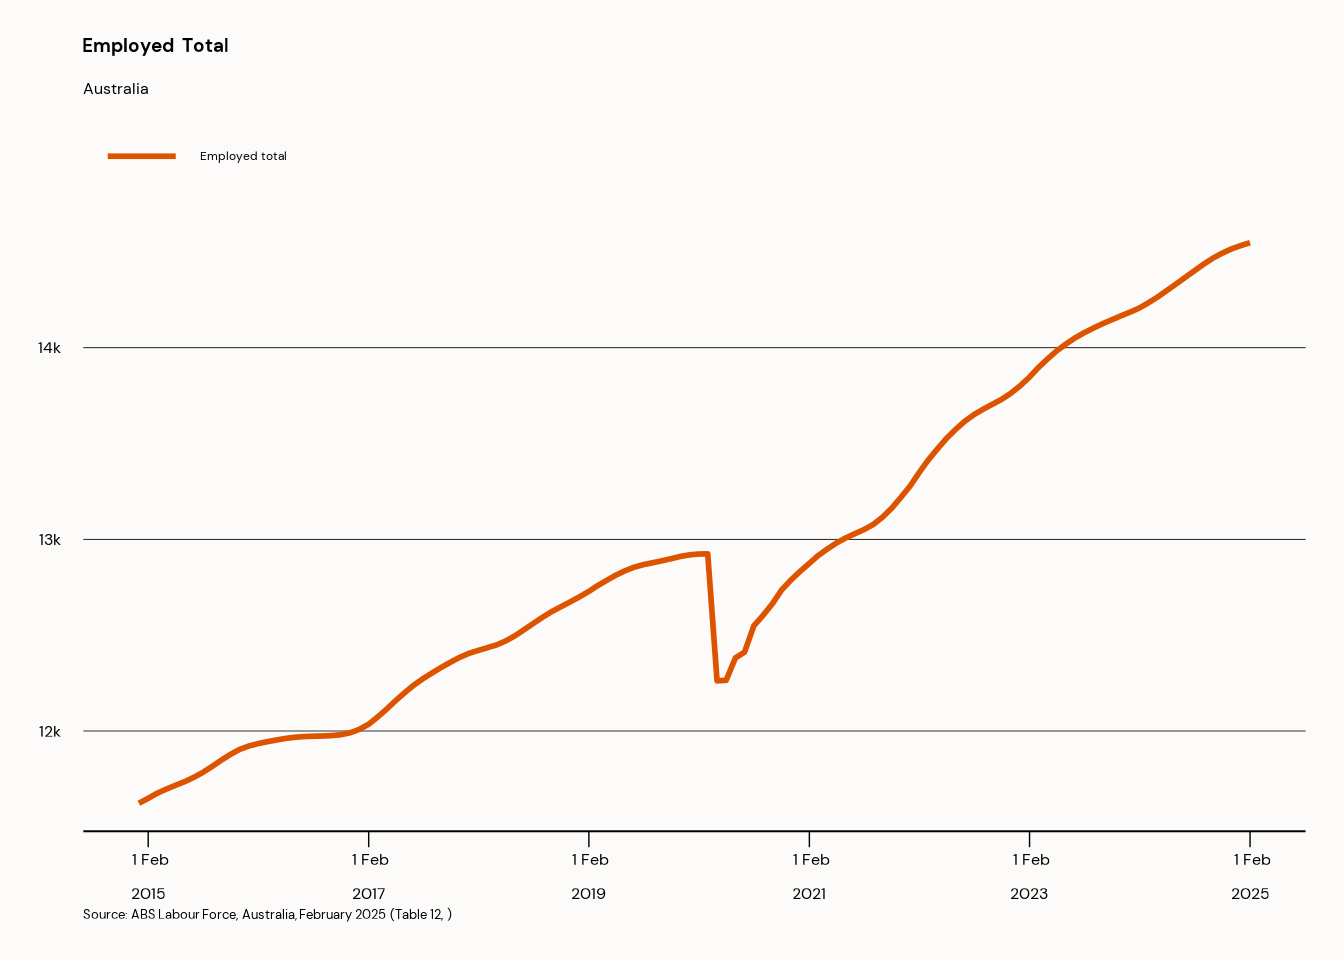
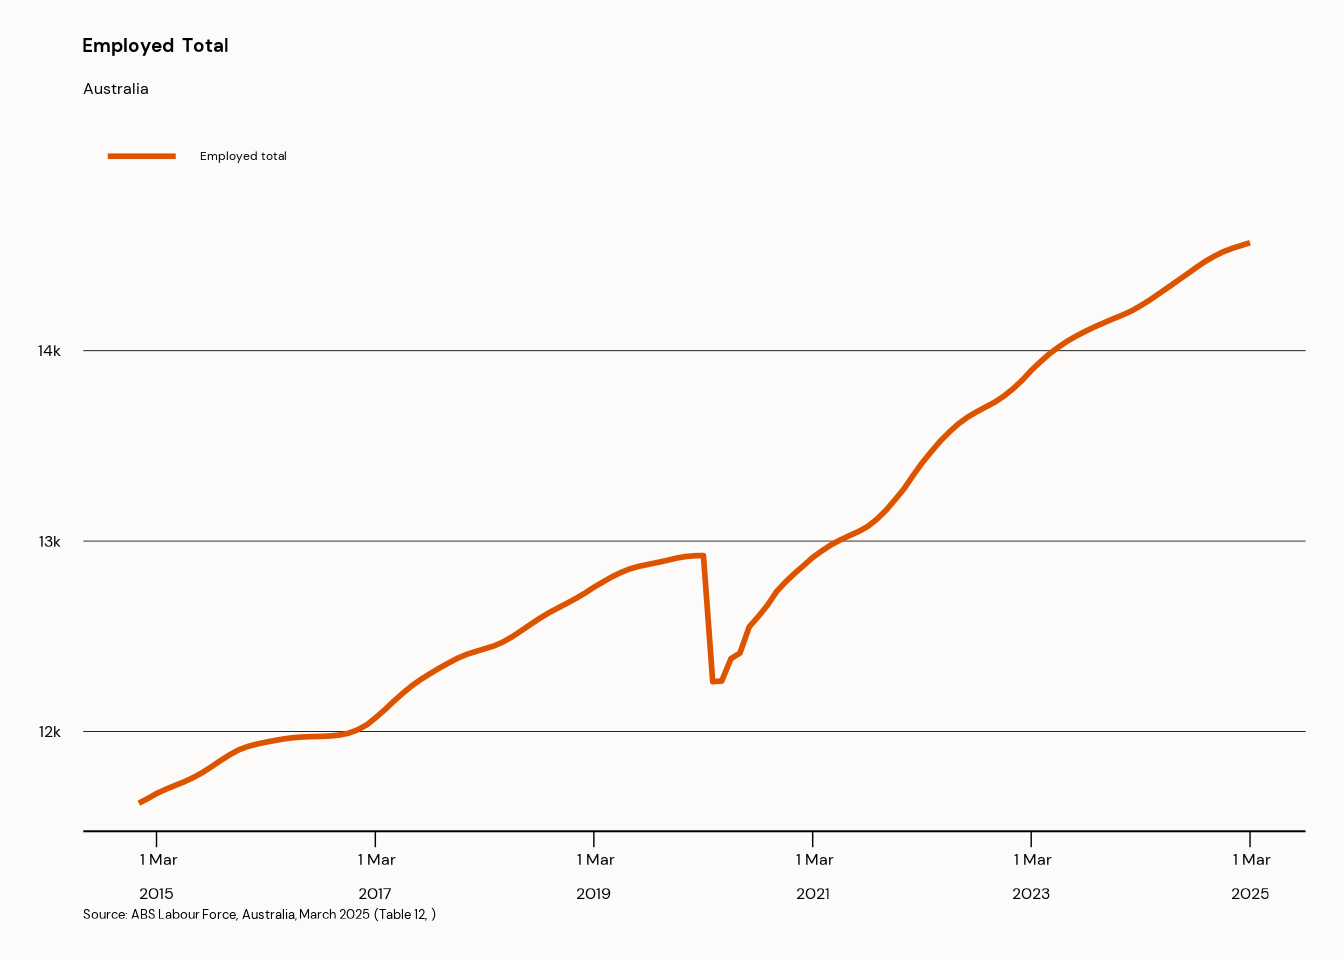
Deploying to gh-pages from @ f-fof/reportabs@b3b1c1bf327353c8614e4692b8395474c20b4fcf 🚀

diff --git a/articles/reporting.html b/articles/reporting.html
@@ -75,12 +75,12 @@
 <div class="cell">
 <div class="sourceCode cell-code" id="cb2"><pre class="downlit sourceCode r">
 <code class="sourceCode R"><span><span class="fu"><a href="../reference/average_over.html">average_over</a></span><span class="op">(</span>data <span class="op">=</span> <span class="va">labour_force</span>, filter_with <span class="op">=</span> <span class="fu"><a href="https://rdrr.io/r/base/list.html" class="external-link">list</a></span><span class="op">(</span>indicator <span class="op">=</span> <span class="st">"Employed total"</span><span class="op">)</span>, between <span class="op">=</span> <span class="fu"><a href="https://rdrr.io/r/base/c.html" class="external-link">c</a></span><span class="op">(</span><span class="st">"2010-01-01"</span>, <span class="st">"2020-01-01"</span><span class="op">)</span><span class="op">)</span></span>
-<span><span class="co">#&gt; [1] 11793.72</span></span></code></pre></div>
+<span><span class="co">#&gt; [1] 11793.71</span></span></code></pre></div>
 </div>
 <div class="cell">
 <div class="sourceCode cell-code" id="cb3"><pre class="downlit sourceCode r">
 <code class="sourceCode R"><span><span class="fu"><a href="../reference/change.html">change</a></span><span class="op">(</span>data <span class="op">=</span> <span class="va">labour_force</span>, filter_with <span class="op">=</span> <span class="fu"><a href="https://rdrr.io/r/base/list.html" class="external-link">list</a></span><span class="op">(</span>indicator <span class="op">=</span> <span class="st">"Employed total"</span><span class="op">)</span><span class="op">)</span></span>
-<span><span class="co">#&gt; [1] "increased by 340 (2.3%) to 14,548"</span></span></code></pre></div>
+<span><span class="co">#&gt; [1] "increased by 330 (2.3%) to 14,567"</span></span></code></pre></div>
 </div>
 <p>Numbers can be formatted nicely for inclusion in documents using <code><a href="../reference/as_comma.html">as_comma()</a></code>, <code><a href="../reference/as_percent.html">as_percent()</a></code> and <code><a href="../reference/as_percentage_point.html">as_percentage_point()</a></code>.</p>
 

diff --git a/reference/change.html b/reference/change.html
@@ -96,10 +96,10 @@ be specified to calculate the change between the current value, and the value as
     <h2 id="ref-examples">Examples<a class="anchor" aria-label="anchor" href="#ref-examples"></a></h2>
     <div class="sourceCode"><pre class="sourceCode r"><code><span class="r-in"><span><span class="kw"><a href="https://rdrr.io/r/base/library.html" class="external-link">library</a></span><span class="op">(</span><span class="va"><a href="https://f-fof.github.io/reportabs/">reportabs</a></span><span class="op">)</span></span></span>
 <span class="r-in"><span><span class="va">labour_force_briefing</span> <span class="op">&lt;-</span> <span class="fu"><a href="read_absdata.html">read_absdata</a></span><span class="op">(</span><span class="st">"labour_force_briefing"</span><span class="op">)</span></span></span>
-<span class="r-msg co"><span class="r-pr">#&gt;</span> Reading labour_force_briefing file found in /tmp/Rtmp8RCV37</span>
+<span class="r-msg co"><span class="r-pr">#&gt;</span> Reading labour_force_briefing file found in /tmp/RtmpvDV5w1</span>
 <span class="r-in"><span><span class="fu">change</span><span class="op">(</span><span class="va">labour_force_briefing</span>,</span></span>
 <span class="r-in"><span>filter_with <span class="op">=</span> <span class="fu"><a href="https://rdrr.io/r/base/list.html" class="external-link">list</a></span><span class="op">(</span>indicator <span class="op">=</span> <span class="st">"Employed total"</span>, series_type <span class="op">=</span> <span class="st">"Seasonally Adjusted"</span><span class="op">)</span><span class="op">)</span></span></span>
-<span class="r-out co"><span class="r-pr">#&gt;</span> [1] "increased by 266,166 (1.8%) to 14.51 million"</span>
+<span class="r-out co"><span class="r-pr">#&gt;</span> [1] "increased by 308,036 (2.1%) to 14.54 million"</span>
 </code></pre></div>
     </div>
   </main><aside class="col-md-3"><nav id="toc" aria-label="Table of contents"><h2>On this page</h2>

diff --git a/reference/value_at.html b/reference/value_at.html
@@ -75,9 +75,9 @@ If only at_year is specified, the value is averaged over the year (Not yet imple
     <h2 id="ref-examples">Examples<a class="anchor" aria-label="anchor" href="#ref-examples"></a></h2>
     <div class="sourceCode"><pre class="sourceCode r"><code><span class="r-in"><span><span class="kw"><a href="https://rdrr.io/r/base/library.html" class="external-link">library</a></span><span class="op">(</span><span class="va"><a href="https://f-fof.github.io/reportabs/">reportabs</a></span><span class="op">)</span></span></span>
 <span class="r-in"><span><span class="va">labour_force_briefing</span> <span class="op">&lt;-</span> <span class="fu"><a href="read_absdata.html">read_absdata</a></span><span class="op">(</span><span class="st">"labour_force_briefing"</span><span class="op">)</span></span></span>
-<span class="r-msg co"><span class="r-pr">#&gt;</span> Reading labour_force_briefing file found in /tmp/Rtmp8RCV37</span>
+<span class="r-msg co"><span class="r-pr">#&gt;</span> Reading labour_force_briefing file found in /tmp/RtmpvDV5w1</span>
 <span class="r-in"><span><span class="fu">value_at</span><span class="op">(</span><span class="va">labour_force_briefing</span> , filter_with <span class="op">=</span> <span class="fu"><a href="https://rdrr.io/r/base/list.html" class="external-link">list</a></span><span class="op">(</span>indicator <span class="op">=</span> <span class="st">"Employed total"</span><span class="op">)</span><span class="op">)</span></span></span>
-<span class="r-msg co"><span class="r-pr">#&gt;</span> → No year or month specified. Returning data for 2025 February</span>
+<span class="r-msg co"><span class="r-pr">#&gt;</span> → No year or month specified. Returning data for 2025 March</span>
 <span class="r-out co"><span class="r-pr">#&gt;</span> numeric(0)</span>
 <span class="r-in"><span></span></span>
 </code></pre></div>

diff --git a/reference/last_value.html b/reference/last_value.html
@@ -75,10 +75,10 @@ gender, age, indicator, and series type.</p></dd>
     <h2 id="ref-examples">Examples<a class="anchor" aria-label="anchor" href="#ref-examples"></a></h2>
     <div class="sourceCode"><pre class="sourceCode r"><code><span class="r-in"><span><span class="kw"><a href="https://rdrr.io/r/base/library.html" class="external-link">library</a></span><span class="op">(</span><span class="va"><a href="https://f-fof.github.io/reportabs/">reportabs</a></span><span class="op">)</span></span></span>
 <span class="r-in"><span><span class="va">labour_force_briefing</span> <span class="op">&lt;-</span> <span class="fu"><a href="read_absdata.html">read_absdata</a></span><span class="op">(</span><span class="st">"labour_force_briefing"</span><span class="op">)</span></span></span>
-<span class="r-msg co"><span class="r-pr">#&gt;</span> Reading labour_force_briefing file found in /tmp/Rtmp8RCV37</span>
+<span class="r-msg co"><span class="r-pr">#&gt;</span> Reading labour_force_briefing file found in /tmp/RtmpvDV5w1</span>
 <span class="r-in"><span><span class="fu">last_value</span><span class="op">(</span><span class="va">labour_force_briefing</span>, <span class="fu"><a href="https://rdrr.io/r/base/list.html" class="external-link">list</a></span><span class="op">(</span>indicator <span class="op">=</span> <span class="st">"Employed total"</span>,</span></span>
 <span class="r-in"><span>series_type <span class="op">=</span> <span class="st">"Seasonally Adjusted"</span><span class="op">)</span><span class="op">)</span></span></span>
-<span class="r-out co"><span class="r-pr">#&gt;</span> [1] "14.25 million"</span>
+<span class="r-out co"><span class="r-pr">#&gt;</span> [1] "14.24 million"</span>
 </code></pre></div>
     </div>
   </main><aside class="col-md-3"><nav id="toc" aria-label="Table of contents"><h2>On this page</h2>

diff --git a/reference/current.html b/reference/current.html
@@ -71,10 +71,10 @@ gender, age, indicator, and series type.</p></dd>
     <h2 id="ref-examples">Examples<a class="anchor" aria-label="anchor" href="#ref-examples"></a></h2>
     <div class="sourceCode"><pre class="sourceCode r"><code><span class="r-in"><span><span class="kw"><a href="https://rdrr.io/r/base/library.html" class="external-link">library</a></span><span class="op">(</span><span class="va"><a href="https://f-fof.github.io/reportabs/">reportabs</a></span><span class="op">)</span></span></span>
 <span class="r-in"><span><span class="va">labour_force_briefing</span> <span class="op">&lt;-</span> <span class="fu"><a href="read_absdata.html">read_absdata</a></span><span class="op">(</span><span class="st">"labour_force_briefing"</span><span class="op">)</span></span></span>
-<span class="r-msg co"><span class="r-pr">#&gt;</span> Reading labour_force_briefing file found in /tmp/Rtmp8RCV37</span>
+<span class="r-msg co"><span class="r-pr">#&gt;</span> Reading labour_force_briefing file found in /tmp/RtmpvDV5w1</span>
 <span class="r-in"><span><span class="fu">current</span><span class="op">(</span><span class="va">labour_force_briefing</span>, <span class="fu"><a href="https://rdrr.io/r/base/list.html" class="external-link">list</a></span><span class="op">(</span>indicator <span class="op">=</span> <span class="st">"Employed total"</span>,</span></span>
 <span class="r-in"><span>series_type <span class="op">=</span> <span class="st">"Seasonally Adjusted"</span><span class="op">)</span><span class="op">)</span></span></span>
-<span class="r-out co"><span class="r-pr">#&gt;</span> [1] "14.51 million"</span>
+<span class="r-out co"><span class="r-pr">#&gt;</span> [1] "14.54 million"</span>
 <span class="r-in"><span></span></span>
 </code></pre></div>
     </div>
